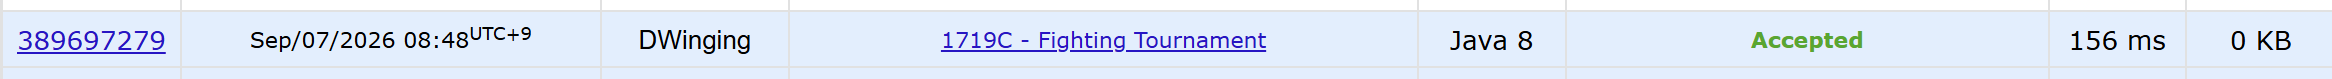
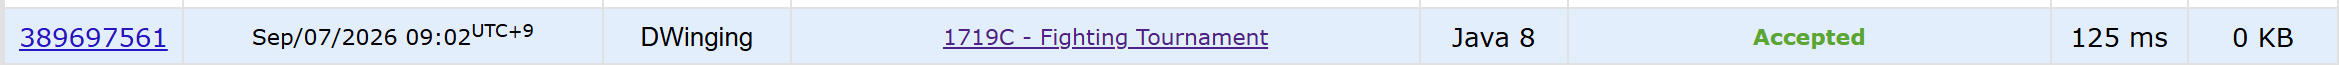
fix: Codeforces Fighting Tournament 코드 수정

diff --git a/Algorithm/2026/09/07/Codeforces_Fighting_Tournament/Solution.java b/Algorithm/2026/09/07/Codeforces_Fighting_Tournament/Solution.java
@@ -2,6 +2,7 @@ import java.io.*;
 
 class Main {
 
+    final static int MAX_TURN = 1_000_000_000;
     final static int INF = 100_000;
     static int c;
     
@@ -35,7 +36,7 @@ class Main {
                 }
             }
 
-            eTurn[idx] = -1;
+            eTurn[idx] = MAX_TURN + 1;
 
             while(q-- > 0) {
                 int cur = readInt();
@@ -47,8 +48,6 @@ class Main {
                 int val = 0;
                 if(s > k) {
                     val = 0;
-                } else if(e == -1) {
-                    val = k + 1 - s;
                 } else {
                     val = Math.min(e, k + 1) - s;
                 }
